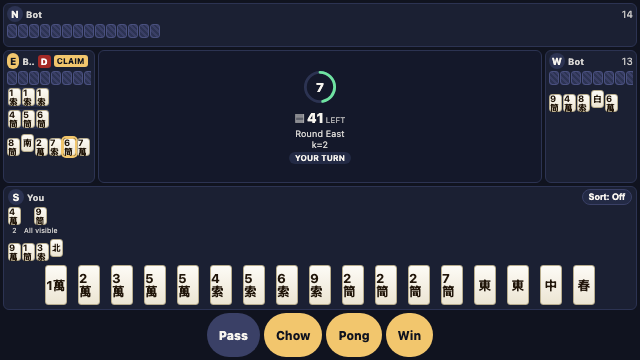
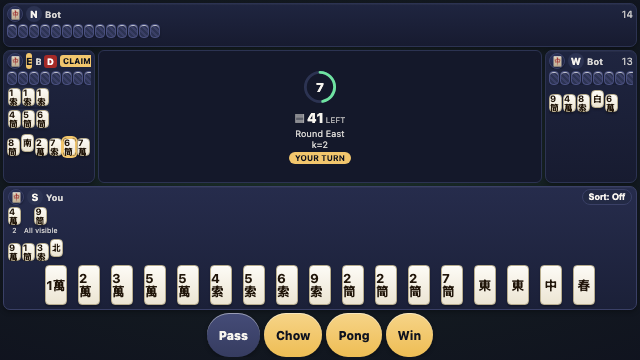
Give the match table real game-UI craft: felt surface, tactile tiles, warmth
Second UI/UX pass — the structural fixes (full-screen view, clear player
labels) landed last commit, but the visual language itself still read as
a flat dashboard, not a game. This pass adds material and warmth without
touching the established accessible color system:

- Felt playing surface: the table background is now a quiet radial jade
  glow at center fading to the existing navy at the rail, instead of one
  flat color — seats read as trays sitting on it.
- Tactile tiles: layered box-shadow (inset highlight + drop shadow) gives
  tiles physical presence instead of flat color swatches; a hover lift on
  the local hand (desktop/mouse only, cost-free on touch) makes picking
  up a tile to look at it feel responsive.
- Player-token avatars: 🤖/🀄 chips (radial-gradient circle, not a bare
  floating emoji) give every seat a face — reinforces "these are your
  three fellow players," which was exactly last round's complaint.
- "Your turn" is now a warm gold invitation instead of the same neutral
  gray pill used for "X thinking" — the one moment the table is waiting
  specifically on the person looking at the screen should read as one.
- Local seat gets a distinct warm tint (home base), active seats get a
  soft glow alongside the border highlight, and action buttons/local hand
  tiles get gradient + shadow + hover/press feedback instead of flat fills.

640x360 (E7.F5) still validated; only backgrounds/shadows changed, no
layout math touched.
[…]

diff --git a/client/match-table.css b/client/match-table.css
@@ -28,7 +28,10 @@ body {
 }
 
 .match-table {
-  background: #10131f;
+  /* A felt playing surface, not a flat panel — a quiet jade glow at the
+     center (where the wall/discards happen) fading into the established
+     navy at the rail. Seats sit as raised trays on top of it. */
+  background: radial-gradient(ellipse 90% 70% at 50% 45%, #1c3129 0%, #131a20 55%, #10131f 100%);
   color: #f7f4ee;
   display: grid;
   font-family: Inter, ui-sans-serif, system-ui, sans-serif;
@@ -65,15 +68,17 @@ body {
 }
 
 .seat {
-  background: #1b2033;
+  background: linear-gradient(180deg, #1f2540, #171b30);
   border: 1px solid #2c3352;
-  border-radius: 6px;
+  border-radius: 7px;
+  box-shadow: 0 2px 5px rgb(0 0 0 / 30%), inset 0 1px 0 rgb(255 255 255 / 4%);
   display: flex;
   flex-direction: column;
   gap: 2px;
   min-height: 0;
   overflow: hidden;
   padding: 2px 3px;
+  transition: border-color 0.2s ease, box-shadow 0.2s ease;
 }
 
 .seat-top {
@@ -121,12 +126,31 @@ body {
   white-space: nowrap;
 }
 
+/* A small player-token chip, not a bare floating emoji — reinforces "this
+   is a seat someone (or something) occupies," the same way a name tag or
+   trading-card portrait would at a physical table. */
+.seat-avatar {
+  align-items: center;
+  background: radial-gradient(circle at 35% 30%, #2f3760, #191d38);
+  border: 1px solid #3a4066;
+  border-radius: 999px;
+  box-shadow: 0 1px 2px rgb(0 0 0 / 35%);
+  display: inline-flex;
+  flex-shrink: 0;
+  font-size: 9px;
+  height: 16px;
+  justify-content: center;
+  line-height: 1;
+  width: 16px;
+}
+
 /* A subtle border highlight, not color alone (§9.5) — the active-badge dot
    and "Active player"/"Your turn" text already carry the same information;
    this just makes it legible at a glance across the whole table instead of
    only inside a single 8px badge. */
 .seat-active {
   border-color: #f2c66d;
+  box-shadow: 0 0 0 1px rgb(242 198 109 / 35%), 0 0 14px rgb(242 198 109 / 20%), 0 2px 5px rgb(0 0 0 / 30%);
 }
 
 .wind-badge {
@@ -202,7 +226,8 @@ body {
   align-items: center;
   background: linear-gradient(180deg, #fdfbf6, #ece5d3);
   border: 1px solid #b8ad8e;
-  border-radius: 3px;
+  border-radius: 4px;
+  box-shadow: 0 1px 0 rgb(255 255 255 / 70%) inset, 0 2px 2px rgb(0 0 0 / 25%);
   color: #21160a;
   display: inline-flex;
   flex-shrink: 0;
@@ -440,9 +465,21 @@ body {
   padding: 1px 6px;
   text-align: center;
   text-transform: uppercase;
+  transition: background 0.2s ease, color 0.2s ease;
+}
+
+/* An invitation, not just a status readout — the one moment the table is
+   waiting specifically on the person looking at the screen. */
+.active-seat-callout-you {
+  background: #f2c66d;
+  color: #10131f;
 }
 
 .local-seat {
+  /* Home base: a warmer tint distinguishes "your" tray from the three
+     opponent trays at a glance, independent of whose turn it is. */
+  background: linear-gradient(180deg, #262c4c, #1b2038);
+  border-color: #3a4066;
   gap: 2px;
   padding: 2px 4px;
 }
@@ -474,6 +511,20 @@ body {
   cursor: pointer;
   font: inherit;
   padding: 0;
+}
+
+.local-hand-tile-button .tile {
+  transition: transform 0.12s ease, box-shadow 0.12s ease;
+}
+
+/* A tactile lift on hover — picking up a tile to look at it — rather than
+   a flat click target. Touch devices simply never trigger :hover, so this
+   is a free desktop/mouse enhancement with no cost elsewhere. */
+@media (hover: hover) {
+  .local-hand-tile-button:not(:disabled):hover .tile {
+    box-shadow: 0 1px 0 rgb(255 255 255 / 70%) inset, 0 5px 8px rgb(0 0 0 / 35%);
+    transform: translateY(-3px);
+  }
 }
 
 .local-hand-tile-button:disabled {
@@ -535,9 +586,10 @@ body {
 }
 
 .action-button {
-  background: #f2c66d;
+  background: linear-gradient(180deg, #f6d488, #eebd54);
   border: 0;
   border-radius: 999px;
+  box-shadow: 0 1px 0 rgb(255 255 255 / 45%) inset, 0 2px 4px rgb(0 0 0 / 30%);
   color: #10131f;
   cursor: pointer;
   flex-shrink: 0;
@@ -548,6 +600,7 @@ body {
   min-height: 44px;
   min-width: 44px;
   padding: 0 12px;
+  transition: transform 0.12s ease, box-shadow 0.12s ease;
 }
 
 .action-button:focus-visible {
@@ -555,8 +608,19 @@ body {
   outline-offset: 2px;
 }
 
+@media (hover: hover) {
+  .action-button:not(:disabled):hover {
+    box-shadow: 0 1px 0 rgb(255 255 255 / 45%) inset, 0 4px 8px rgb(0 0 0 / 35%);
+    transform: translateY(-1px);
+  }
+}
+
+.action-button:active {
+  transform: translateY(0);
+}
+
 .action-pass {
-  background: #3a4066;
+  background: linear-gradient(180deg, #454c78, #363c60);
   color: #f7f4ee;
 }
 
@@ -638,6 +702,12 @@ body {
 
   .seat-name {
     font-size: 14px;
+  }
+
+  .seat-avatar {
+    font-size: 15px;
+    height: 26px;
+    width: 26px;
   }
 
   .dealer-badge,

diff --git a/client/MatchTable.tsx b/client/MatchTable.tsx
@@ -173,6 +173,9 @@ function OpponentSeat({
     <section className={`seat seat-${slot}${state.isActive ? " seat-active" : ""}`} aria-label={`${windName(seat)} seat`}>
       <header className="seat-header">
         <div className="seat-identity">
+          <span className="seat-avatar" aria-hidden="true">
+            {state.isBot ? "🤖" : "🀄"}
+          </span>
           <span className={`wind-badge${seat === prevailingWind ? " wind-badge-prevailing" : ""}`}>{windName(seat).slice(0, 1)}</span>
           <span className="seat-name">{state.displayName}</span>
           {state.isDealer ? <span className="dealer-badge" title="Dealer">D</span> : null}
@@ -280,7 +283,10 @@ function WallAndTurnCenter({ state }: { state: MatchTableState }) {
         <span className="round-wind">Round {windName(state.prevailingWind)}</span>
         <span className="round-continuation">k={state.continuation}</span>
       </div>
-      <div className="active-seat-callout" aria-live="polite">
+      <div
+        className={`active-seat-callout${activeSeat === state.localSeat ? " active-seat-callout-you" : ""}`}
+        aria-live="polite"
+      >
         {activeSeat === state.localSeat ? "Your turn" : `${windName(activeSeat)} thinking`}
       </div>
     </div>
@@ -332,6 +338,9 @@ function LocalSeat({
     <section className={`seat seat-bottom local-seat${selectable || canDraw ? " seat-active" : ""}`} aria-label="Your seat">
       <header className="seat-header">
         <div className="seat-identity">
+          <span className="seat-avatar" aria-hidden="true">
+            🀄
+          </span>
           <span className="wind-badge">{windName(state.wind).slice(0, 1)}</span>
           <span className="seat-name">You</span>
           {state.isDealer ? <span className="dealer-badge" title="Dealer">D</span> : null}